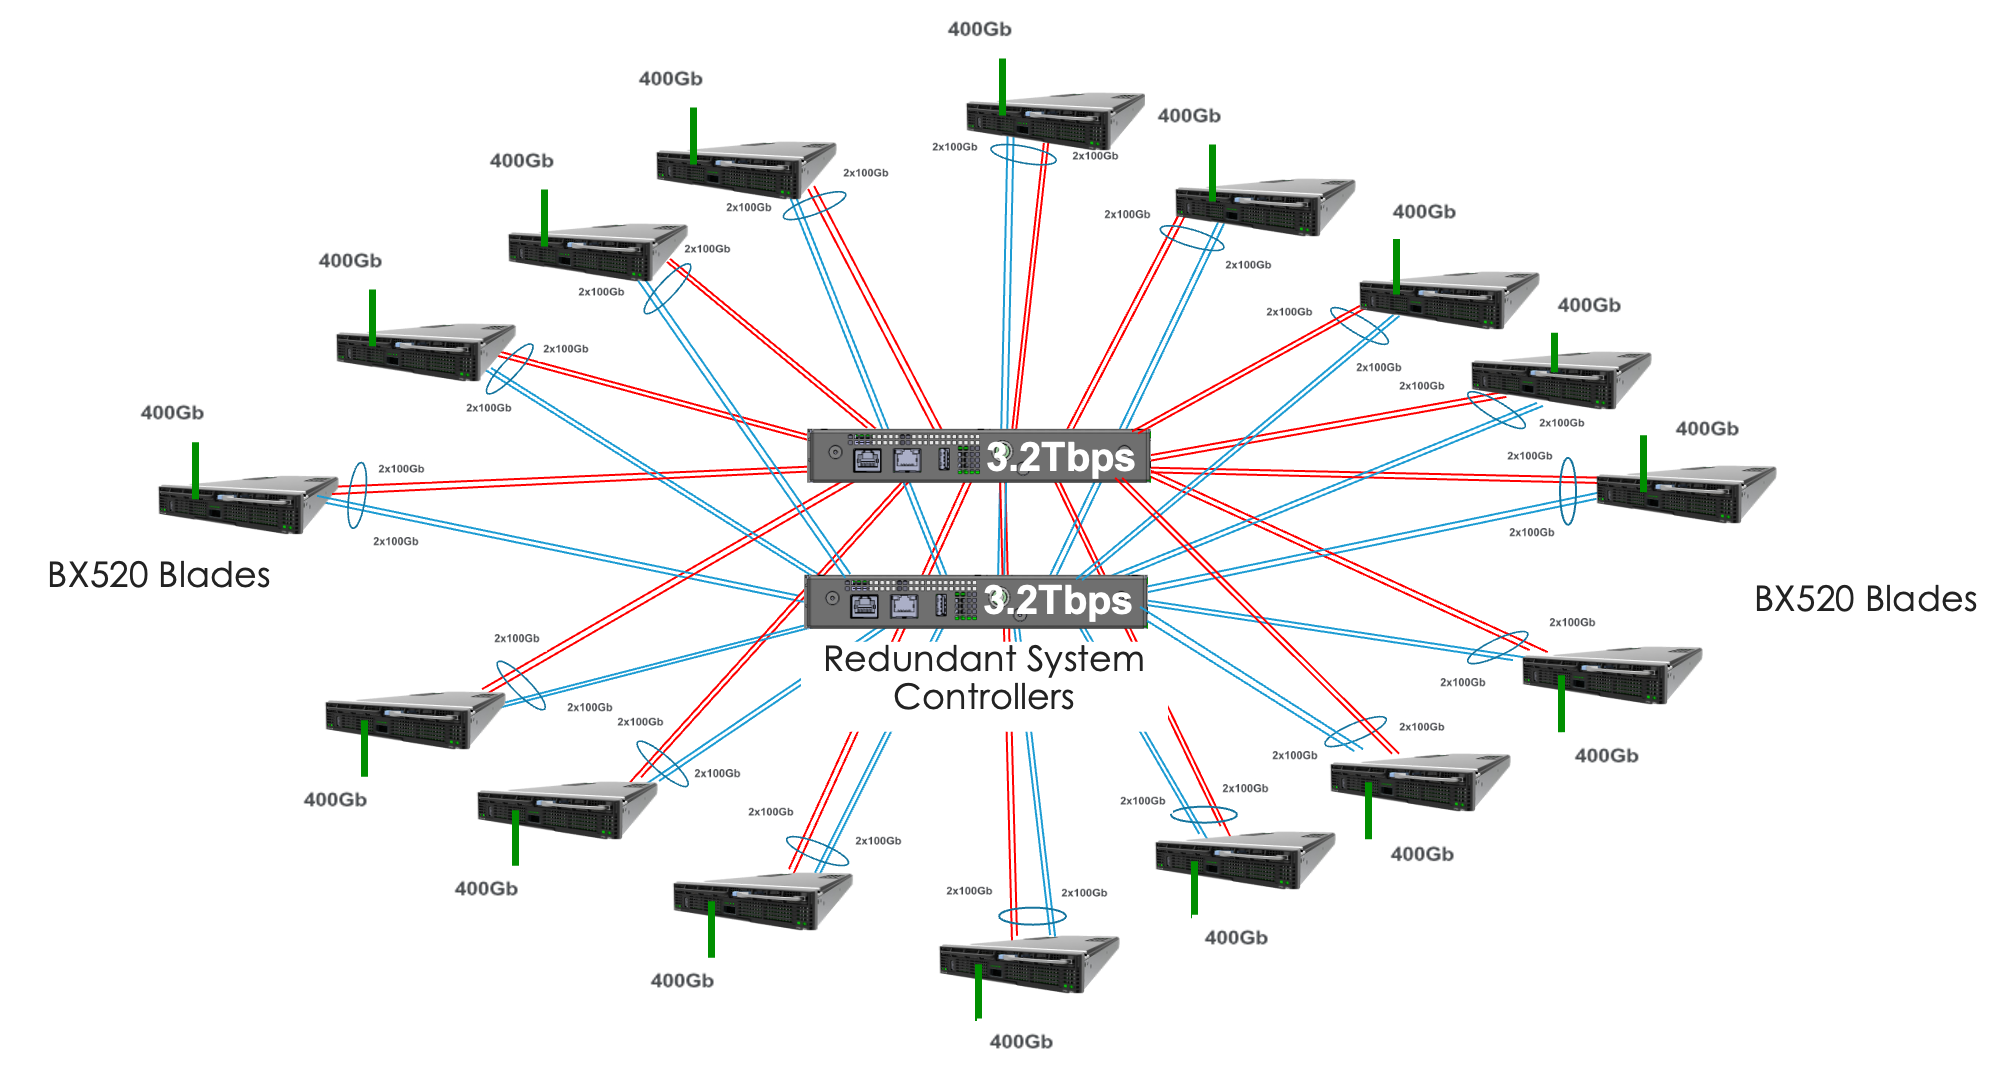
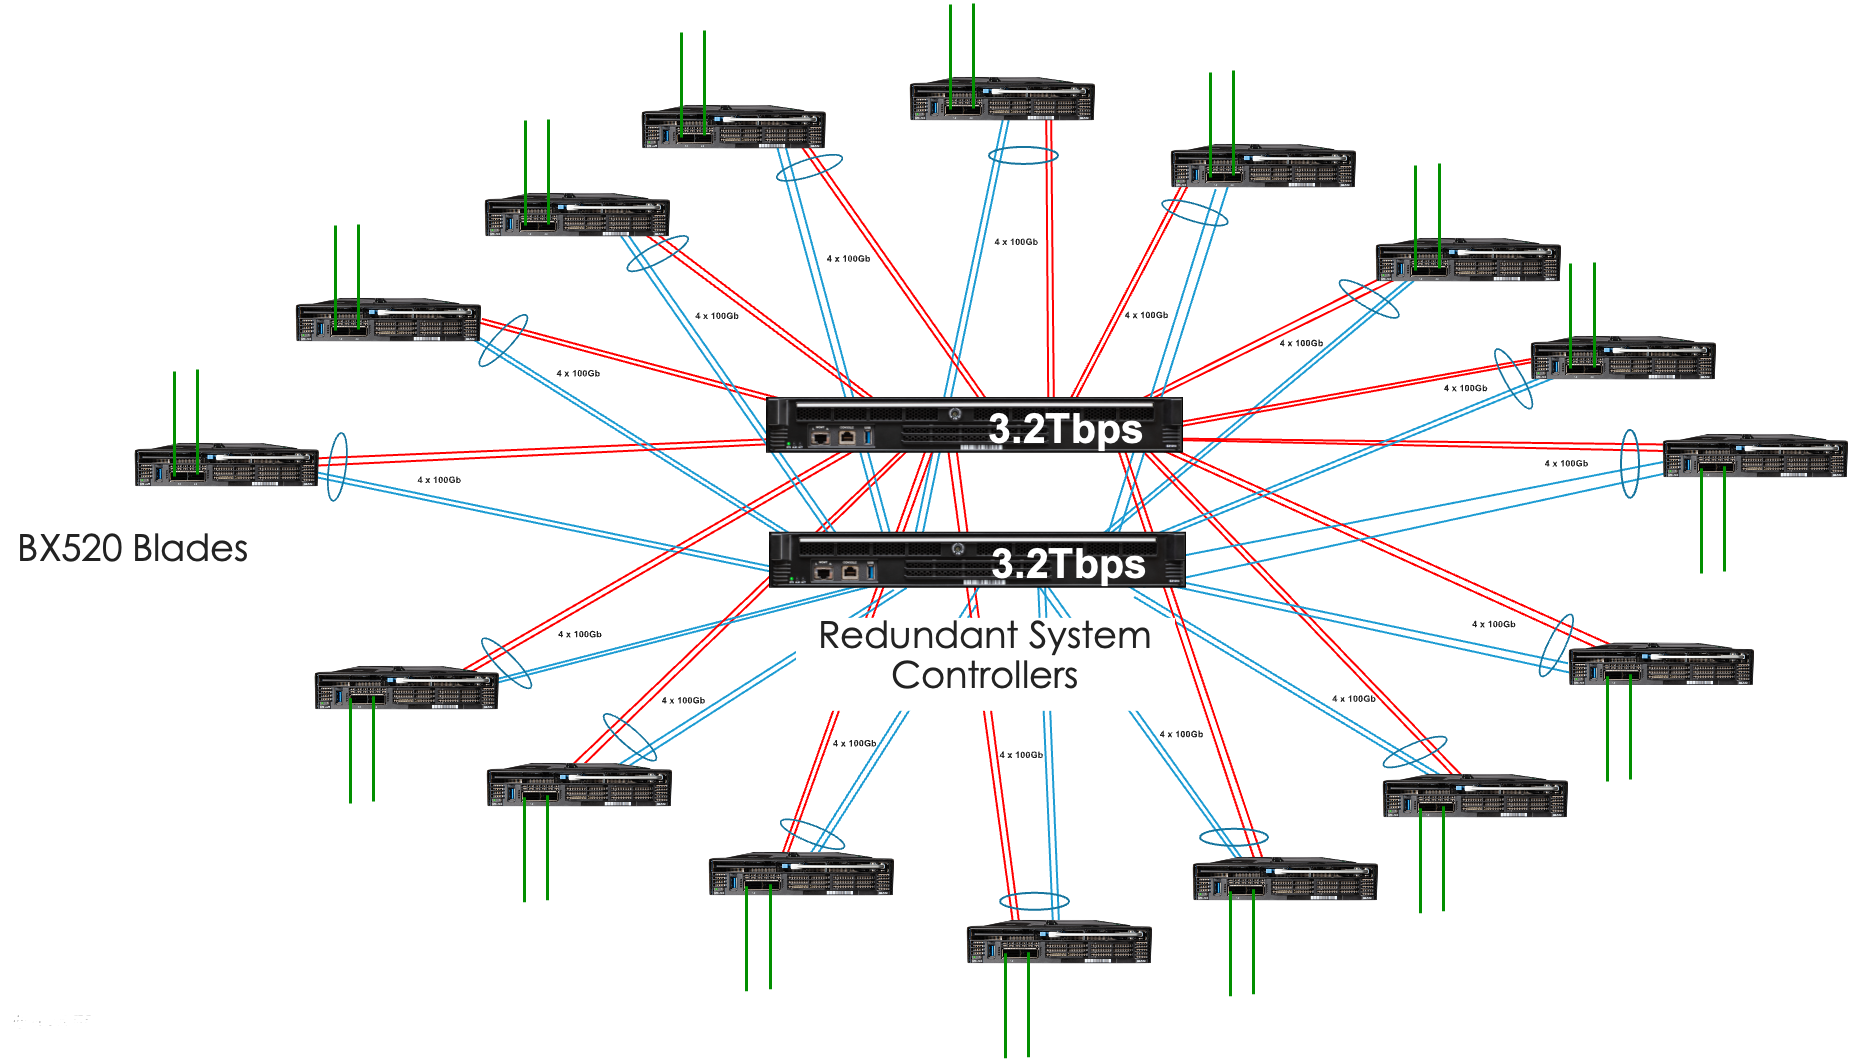
images

Changed region(s): [[0.0, 0.0, 0.9925, 0.9925], [0.1551, 0.2171, 0.1861, 0.2481]]

diff --git a/docs/velos_networking.rst b/docs/velos_networking.rst
@@ -147,7 +147,7 @@ Interfaces
 
 Interface numbering will vary depending on the current portgroup configuration. Interfaces will always be numbered by **<blade#>/<port#>**. The number of ports on a blade will change depending on if the portgroup is configured as bundled, or unbundled. If the ports are bundled then ports will be **1/1.0** and **1/2.0** for slot 1, and **2/1.0** and **2/2.0** for slot 2. 
 
-If ports are unbundled, then the port numbering will be **1/1.1, 1/1.2, 1/1.3, and 1/1.4** for the first physical port and **1/2.1, 1/2.2, 1/2.3, and 1/2.4** for the second physical port. Breakout cables will be needed to support the unbundled 25Gb, or 10Gb configurations. Even when multiple chassis partitions are used, the port numbering will stay consistent starting with the blade number. Below is an example of port numbering when all interfaces are bundled.
+If ports are unbundled, then the port numbering will be **1/1.1, 1/1.2, 1/1.3, and 1/1.4** for the first physical port and **1/2.1, 1/2.2, 1/2.3, and 1/2.4** for the second physical port. Breakout cables will be needed to support the unbundled 25Gb, or 10Gb configurations. Even when multiple chassis partitions are used, the port numbering will stay consistent starting with the blade number. Below is an example of port numbering when all interfaces are bundled.Below is an example of BX110 blade numbering for both bundled and unbundled configurations.
 
 .. image:: images/velos_networking/image12.png
   :align: center
@@ -156,6 +156,13 @@ Below is an example of port numbering when all interfaces are unbundled.
 
 .. image:: images/velos_networking/image12a.png
   :align: center
+
+
+For the BX520 blades interface numbering is different because the BX520 takes up two slots. The slot reference for the blade will always be the first of the two slots which will always be an odd number. If the ports are bundled then ports will be **1/1.0** and **1/2.0** for a blade that occupies slot 1 and slot 2, and **3/1.0** and **3/2.0** for a blade that occupies slots 3 and 4. Below is an example of four BX520 blades within the CX410 chassis and their interface numbering when all ports are bundled.
+
+.. image:: images/velos_networking/bx520-interfaces.png
+  :align: center
+
 
 Supported Optics
 ================
@@ -206,6 +213,18 @@ The transceiver below can be used in QSFP28 or QSFP+ slots,  or as 40G QSFP+ in 
 
 
 **Note: OPT-0039 QSFP28 LR4 used in VIPRION/iSeries are compatible with VELOS, but default optics for 100G LR4 VELOS is OPT-0052 (as shown above)**.
+
+
+**400Gb QSFP-DD options:**
+
+The optics below are only supported on the BX520 blade. 400Gb optics are not supported on the BX110 blade.
+
++------------------------+------------+----------------------------------------------------------------------------------+
+| 400GBASE-FR4 (QSFPDD)  | OPT-       | TRANSCEIVER, QSFPDD, 400G-FR4, 850NM, MMF, MPO, DDM, BRANDED                     |
++------------------------+------------+----------------------------------------------------------------------------------+
+| 400GBASE-DR4 (QSFPDD)  | OPT-       | TRANSCEIVER, QSFPDD, 400G-DR4, 10KM, LC, SMF, 4.5W, DDM, VELOCITY SDK, BRANDED   |
++------------------------+------------+----------------------------------------------------------------------------------+
+
 
 Below are the **current** VELOS optic SKUs:
 

diff --git a/docs/introduction_new.rst b/docs/introduction_new.rst
@@ -75,7 +75,7 @@ For the CX1610 chassis, the system controllers are responsible for providing non
 
 It is technically possible that the BX110 blade could run inside the CX1610 chassis in the future if business demand is great enough, but there is no committed plan at this time. In this case, each BX110 blade would have one 100Gb backplane connection to each system controller (200Gb total). The picture below shows the backplane interconnections of a fully populated 32 slot CX1610 chassis and with 32 BX110 blades (currently unsupported) installed. 
 
-.. note:: BX110 support in the CX1610 chassis is not supported. Mixing of blade types in the same chassis is only supported in the CX410 chassis at this time.
+.. note:: BX110 support in the CX1610 chassis is not supported. Mixing of blade types in the same CX410 chassis is not supported in F5OS-C 1.8.1, this is being considered for a future release.
 
 .. image:: images/velos_introduction/bx110cx1610.png
   :align: center
